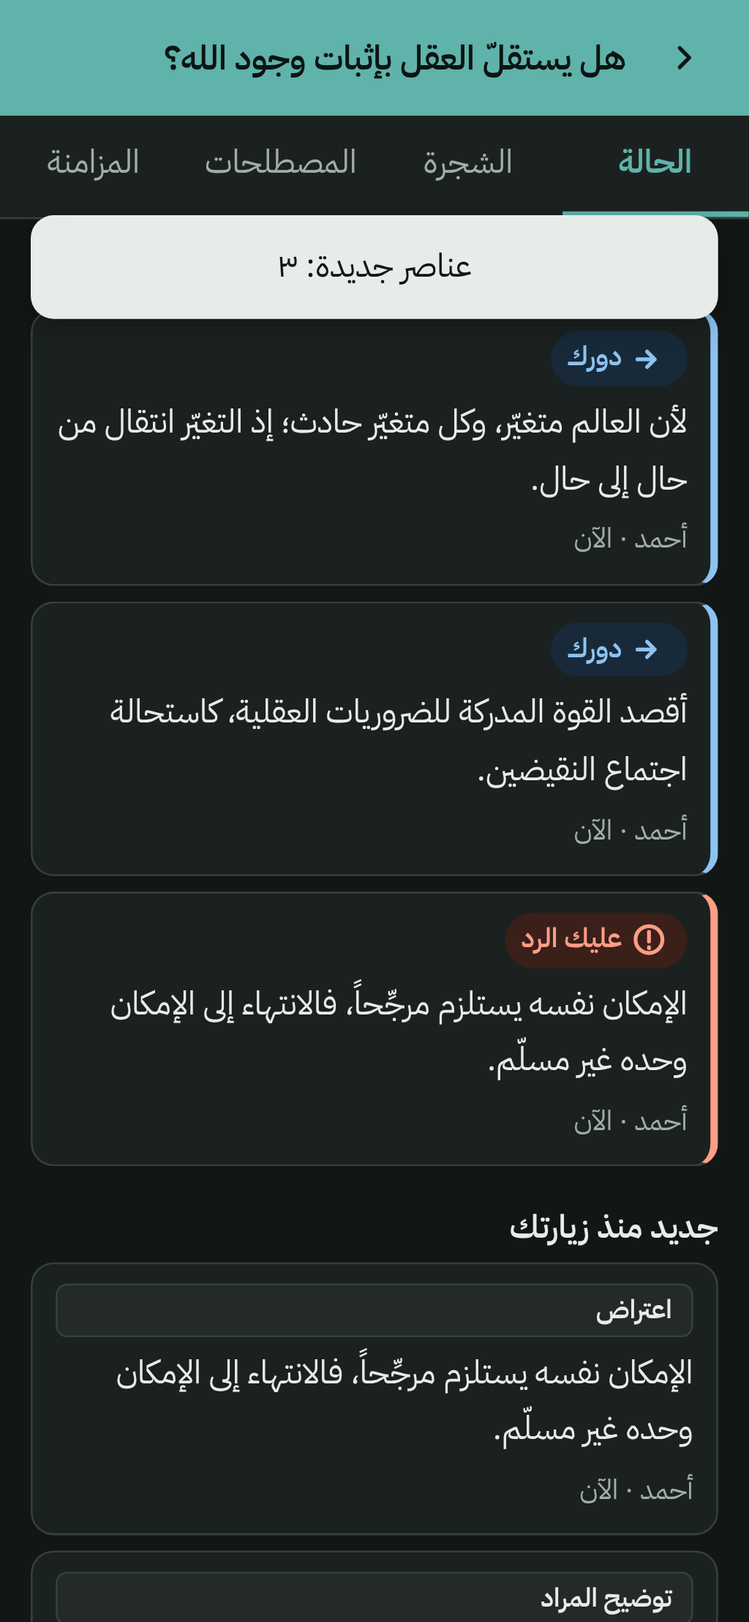
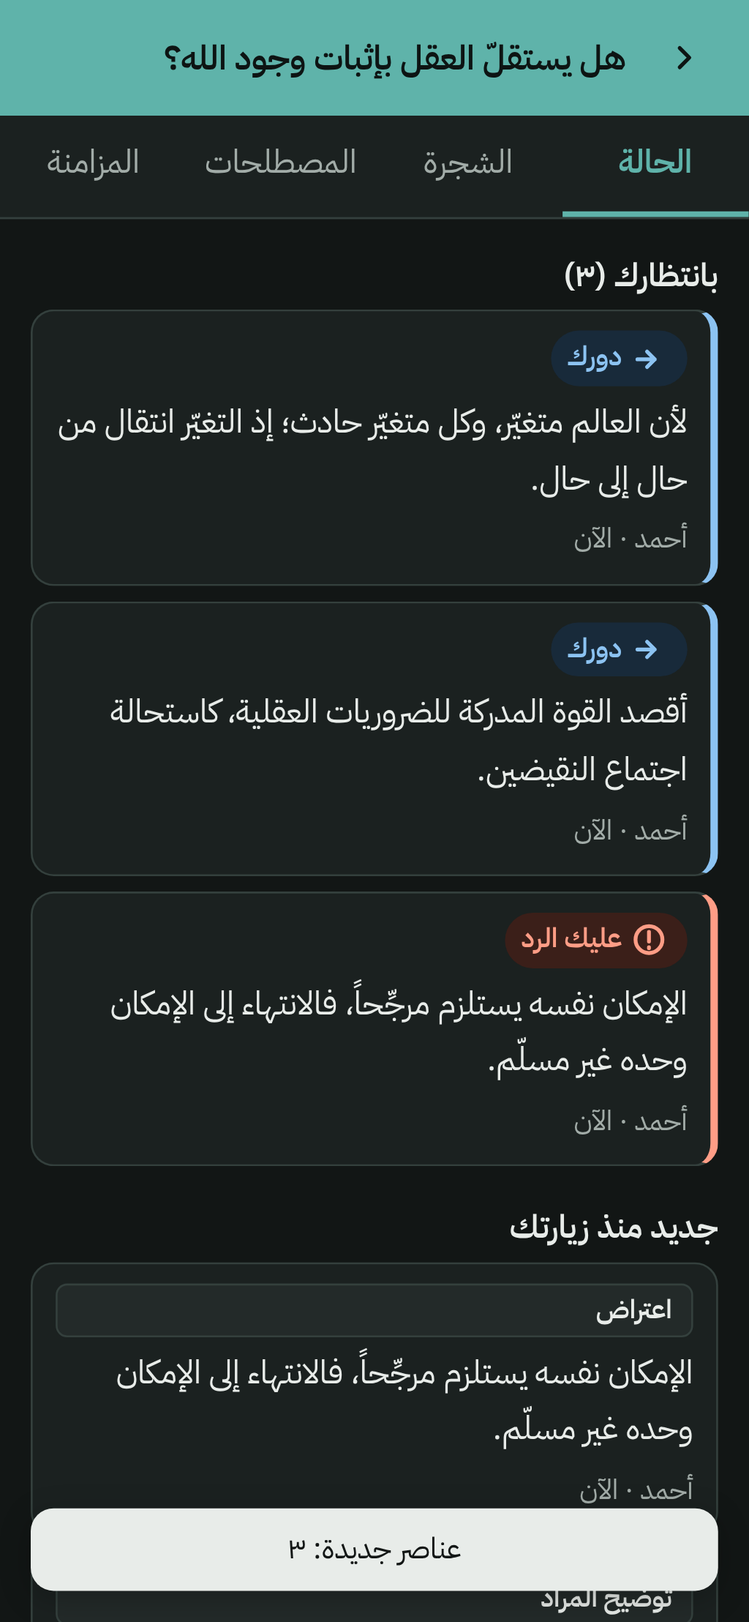
Final review fixes (F1–F8): more-on-point badge, stance targets, toast, neutral challenge badges, accurate STATUS/README/NEEDS-AHMAD, roadmap; stabilise long-debate e2e
Claude-Session: https://claude.ai/code/session_01XPZyjJvRZfdRpConqT9cqS

Changed region(s): [[0.0312, 0.1245, 0.9688, 0.218], [0.0312, 0.903, 0.9688, 0.9964]]

diff --git a/src/ui/Debate.tsx b/src/ui/Debate.tsx
@@ -111,6 +111,7 @@ function StatusTab({ l }: { l: Loaded }) {
                 <a class={`wait-item ${it.kind}`} href={debateHref(l.record.id, 't', it.focus)}>
                   <StatusChip tone={it.kind === 'owe' ? 'owe' : 'move'} text={it.kind === 'owe' ? t('debate.youOwe') : t('debate.yourMove')} />
                   <span class="wait-text" dir="auto">{excerpt(it.text, 110)}</span>
+                  {!!it.more && <span class="pill pill-owe">{t('debate.moreOnPoint', { n: it.more })}</span>}
                   <span class="muted small">{personName(s, it.by, l.me)} · {ago(it.at)}</span>
                 </a>
               </li>
@@ -128,7 +129,8 @@ function StatusTab({ l }: { l: Loaded }) {
               <li key={n.id}>
                 <a class="fresh-item" href={debateHref(l.record.id, 't', n.id)}>
                   <span class="move-badge">{moveLabel(n.move)}</span>
-                  <span dir="auto">{n.text ? excerpt(n.text, 100) : t('stance.on', { text: excerpt(n.parentId ? s.nodes.get(n.parentId)?.text ?? '' : '', 80) })}</span>
+                  {(n.move === 'concede' || n.move === 'withdraw' || n.move === 'agree_disagree') && <span class="muted small" dir="auto">{t('stance.on', { text: excerpt(n.parentId ? s.nodes.get(n.parentId)?.text ?? '' : '', 80) })}</span>}
+                  {n.text && <span dir="auto">{excerpt(n.text, 100)}</span>}
                   <span class="muted small">{personName(s, n.authorId, l.me)} · {ago(n.at)}</span>
                 </a>
               </li>
@@ -177,7 +179,7 @@ function StatusTab({ l }: { l: Loaded }) {
   );
 }
 
-interface WaitItem { key: string; kind: 'owe' | 'move'; focus: string; text: string; by: string; at: number }
+interface WaitItem { key: string; kind: 'owe' | 'move'; focus: string; text: string; by: string; at: number; more?: number }
 function waitingItems(s: DebateState, me: string | null): WaitItem[] {
   if (!me) return [];
   const ob = obligationOf(s, me);
@@ -185,7 +187,7 @@ function waitingItems(s: DebateState, me: string | null): WaitItem[] {
   for (const targetId of ob.owes) {
     const open = s.nodes.get(targetId)!.children.map((c) => s.nodes.get(c)!).filter((c) => s.challenges.get(c.id)?.state === 'open');
     const first = open[0]; if (!first) continue;
-    out.push({ key: `o${targetId}`, kind: 'owe', focus: open.length === 1 ? first.id : targetId, text: first.text, by: first.authorId, at: first.at });
+    out.push({ key: `o${targetId}`, kind: 'owe', focus: open.length === 1 ? first.id : targetId, text: first.text, by: first.authorId, at: first.at, more: open.length - 1 });
   }
   for (const cid of ob.yourMove) {
     const ch = s.challenges.get(cid)!;
@@ -311,7 +313,7 @@ export function NodeCard({ l, n, focused, onReply }: { l: Loaded; n: DNode; focu
         <span class="muted small">{ago(n.at)}</span>
       </div>
       {n.text && <p class={`card-text ${focused ? '' : 'clamp'}`} dir="auto">{n.text}</p>}
-      {!n.text && n.parentId && <p class="muted small" dir="auto">{t('stance.on', { text: excerpt(s.nodes.get(n.parentId)?.text || moveLabel(s.nodes.get(n.parentId)!.move), 90) })}</p>}
+      {(n.move === 'concede' || n.move === 'withdraw' || n.move === 'agree_disagree') && n.parentId && <p class="muted small" dir="auto">{t('stance.on', { text: excerpt(s.nodes.get(n.parentId)?.text || moveLabel(s.nodes.get(n.parentId)!.move), 90) })}</p>}
       {n.meta.origin === 'citation' && <p class="muted small">{t('compose.citation')}</p>}
       {n.meta.witness && <p class="muted small">{t(`compose.witness.${n.meta.witness}`)}</p>}
       {ref && <p class="small">→ <a href={debateHref(l.record.id, 't', ref.id)} dir="auto">{excerpt(ref.text, 60)}</a></p>}

diff --git a/src/styles.css b/src/styles.css
@@ -116,7 +116,7 @@ textarea.input { resize: vertical; }
 .card-foot { display: flex; flex-wrap: wrap; gap: 8px; align-items: center; }
 .author { font-weight: 600; font-size: 0.95rem; }
 .move-badge { display: inline-flex; padding: 1px 10px; border-radius: 6px; background: var(--surface-2); font-size: 0.85rem; font-weight: 600; border: 1px solid var(--border); }
-.move-object, .move-refute, .move-ask_proof, .move-clarify_q, .move-ask_source, .move-counter { border-color: var(--owe); color: var(--owe); }
+.move-object, .move-refute, .move-ask_proof, .move-clarify_q, .move-ask_source, .move-counter { border-color: var(--accent); color: var(--text); }
 .move-reason, .move-clarify, .move-source, .move-obvious, .move-see_also { border-color: var(--brand); color: var(--brand); }
 .reply-btn { margin-block-start: 6px; }
 .history { margin: 6px 0; padding-inline-start: 1.2em; }
@@ -148,7 +148,7 @@ textarea.input { resize: vertical; }
 .chips { display: flex; flex-wrap: wrap; gap: 6px; }
 .chip-btn { border-radius: 999px; padding: 6px 14px; }
 
-.toast { position: fixed; inset-inline: 16px; inset-block-start: 112px; pointer-events: none; box-shadow: 0 4px 16px rgb(0 0 0 / 0.25); z-index: 50; margin-inline: auto; max-inline-size: 560px; background: var(--text); color: var(--bg); padding: 12px 16px; border-radius: 12px; text-align: center; }
+.toast { position: fixed; inset-inline: 16px; inset-block-end: max(16px, env(safe-area-inset-bottom)); pointer-events: none; font-size: 0.95rem; padding: 8px 14px !important; box-shadow: 0 4px 16px rgb(0 0 0 / 0.25); z-index: 50; margin-inline: auto; max-inline-size: 560px; background: var(--text); color: var(--bg); padding: 12px 16px; border-radius: 12px; text-align: center; }
 .charter { padding-inline-start: 1.4em; margin: 0; }
 .library { margin: 0; display: flex; flex-direction: column; gap: 10px; }
 .lib-entry dt { font-weight: 600; }

diff --git a/tests/e2e/long-debate.spec.ts b/tests/e2e/long-debate.spec.ts
@@ -51,7 +51,11 @@ test('a 300-point debate stays fast and navigable on a throttled phone', async (
   for (let i = 0; i < 6; i++) {
     const next = A.page.locator('a.card').first();
     if (!(await next.count())) break;
-    t1 = Date.now(); await next.click(); await expect(A.page.locator('article.card.focused')).toBeVisible(); depthSteps.push(Date.now() - t1);
+    const href = (await next.getAttribute('href'))!;
+    const target = decodeURIComponent(href.split('/').pop()!);
+    t1 = Date.now(); await next.click();
+    await expect.poll(() => decodeURIComponent(A.page.url())).toContain(`/t/${target}`); // navigation finished
+    await expect(A.page.locator('article.card.focused')).toBeVisible(); depthSteps.push(Date.now() - t1);
   }
   t1 = Date.now();
   await A.page.locator('article.card.focused').getByRole('button', { name: 'ردّ' }).click();

diff --git a/src/ui/SyncTab.tsx b/src/ui/SyncTab.tsx
@@ -27,7 +27,7 @@ export function SyncTab({ l }: { l: Loaded }) {
   const exportPlain = async () => { if (!confirm(t('sync.exportPlainWarn'))) return; const f = plainExport(); await shareFile(f.name, f.text, 'application/json'); };
   const importF = async () => {
     const text = await readFileText('.txt,text/plain'); if (!text) return;
-    try { const res = await importFileText(text); showToast(t('sync.imported', { n: res.added })); }
+    try { const res = await importFileText(text); if (res.added > 0) showToast(t('sync.imported', { n: res.added })); }
     catch (e) { showToast(errorText((e as Error).message)); }
   };
   const shareIdentity = async () => {

diff --git a/src/ui/LinkHandler.tsx b/src/ui/LinkHandler.tsx
@@ -25,7 +25,7 @@ export function LinkHandler({ raw }: { raw: string }) {
           go(rec?.identity ? debateHref(id) : debateHref(id, 'join'), true);
         } else if (p.kind === 'update') {
           const n = await acceptUpdatePayload(p.debateId, p.payload);
-          showToast(t('sync.imported', { n }));
+          if (n > 0) showToast(t('sync.imported', { n }));
           go(debateHref(p.debateId), true);
         } else {
           const name = await acceptIdentityPayload(p.debateId, p.payload, (nm) => confirm(t('sync.identityConfirm', { name: nm })));

diff --git a/src/ui/Home.tsx b/src/ui/Home.tsx
@@ -19,7 +19,7 @@ export function Home() {
   const importFile = async () => {
     const text = await readFileText('.txt,text/plain');
     if (!text) return;
-    try { const r = await importFileText(text); showToast(t('sync.imported', { n: r.added })); go(debateHref(r.debateId)); }
+    try { const r = await importFileText(text); if (r.added > 0) showToast(t('sync.imported', { n: r.added })); go(debateHref(r.debateId)); }
     catch (e) { showToast(errorText((e as Error).message)); }
   };
   return (

diff --git a/src/i18n/ar.ts b/src/i18n/ar.ts
@@ -97,6 +97,7 @@ export const ar = {
   'debate.yourMove': 'دورك',
   'debate.owesN': 'عليه الرد: {n}',
   'debate.moveN': 'دوره: {n}',
+  'debate.moreOnPoint': 'وسؤال/اعتراض آخر على النقطة نفسها: {n}',
   'debate.moveOf': 'دور {name}',
   'debate.nothingWaiting': 'لا شيء ينتظرك الآن.',
   'debate.newSince': 'جديد منذ زيارتك',

diff --git a/src/i18n/en.ts b/src/i18n/en.ts
@@ -98,6 +98,7 @@ export const en: Record<StringKey, string> = {
   'debate.yourMove': 'Your move',
   'debate.owesN': 'owes: {n}',
   'debate.moveN': 'their move: {n}',
+  'debate.moreOnPoint': '+{n} more on the same point',
   'debate.moveOf': '{name}\'s move',
   'debate.nothingWaiting': 'Nothing is waiting on you.',
   'debate.newSince': 'New since your last visit',

diff --git a/docs/qa/FINAL-REVIEW.md b/docs/qa/FINAL-REVIEW.md
@@ -1,0 +1,61 @@
+# Final independent review: Munazara (مناظرة)
+
+**Reviewer:** independent final reviewer, starting with no prior context · **Date:** 2026-11-13 · **Commit reviewed:** `1ac2206`
+**Method:** I built the site and served it with `vite preview` on :4176. Two Playwright contexts played Ahmad and Khalid at 390×844, locale ar-SA, both in manual sync mode, with sharing done through the clipboard fallback. They held a 15-move Arabic debate on «هل يستقلّ العقل بإثبات وجود الله؟». After that I tried edge cases, switched to English and dark mode, and served `dist/` under a `/Repo-B/` sub-path, as GitHub Pages would. I looked at every screenshot myself. I read the earlier reviews only after my own hands-on pass.
+
+## Verdict: **ship, with the caveats listed below**
+
+The core promise holds in real use. Every one of the 15 moves was attached to the point it answered, and «بانتظارك» showed the right person each time. The «عليك الرد» and «دورك» labels and the participant counts were symmetric and correct after every exchange. Silence closed nothing. Agree-to-disagree needed both people. The wording never names a winner. Arabic typography is good: IBM Plex Sans Arabic is self-hosted, the layout is RTL throughout, mixed Arabic and Latin text displays correctly, and there was no horizontal scroll at 390 px.
+
+In manual mode the app made **0 requests to other hosts** and logged no console errors. The sub-path build loads its fonts and service worker, and its invite links include `/Repo-B/`.
+
+None of my findings is Critical. One Important finding concerns the "who owes what" promise and is cheap to fix. One Important finding concerns the docs: they had gone stale because commits landed while this review was running.
+
+## Findings
+
+| ID | Severity | Evidence | Suggested fix |
+|---|---|---|---|
+| F1 | **Important** | **One card can hide several demands.** Khalid asked «ما دليلك؟» and then «ماذا تقصد؟» on Ahmad's claim. Ahmad's «بانتظارك (١)» showed a single card containing only the *first* question. Nothing said a second, different question was also waiting. The card is built in `Debate.tsx` `waitingItems()` from `first.text` only. The second question appeared only after tapping, in the focus view. Counting a point once is a deliberate anti-gish-gallop rule, but the card itself should not hide the content. Here it under-reports what Ahmad owes. | Keep counting per point. On the card, add «و{n} طلبات أخرى على النقطة نفسها», or list each demand's move label, for example «ما دليلك؟ · ماذا تقصد؟». |
+| F2 | **Important** (docs) | **STATUS.md is stale.** Commits `76840a3` and `1ac2206` landed during this review. STATUS still says "deploy job fails with 'Ensure GitHub Pages has been enabled'", but the Pages workflow now *succeeds* without deploying and only emits a notice. STATUS also says "CI on GitHub: green (run 6 on commit 89b2496)", yet CI failed on `76840a3` and passed on `1ac2206`. The site URL returns 404, so it is not live, as the docs say. One more risk: a green "Deploy to GitHub Pages" run could make the owner think the site is live. | Update STATUS's "Not done" and CI lines. In NEEDS-AHMAD §1, add: "a green Deploy run does not mean the site is live until Pages is switched on; look for the notice". |
+| F3 | Minor | **The Q5 fix only partly holds.** A concession, withdrawal or agree-to-disagree shows «على: …» (what it applies to) only when the stance has *no* text (`Debate.tsx:131` and `:314`). The composer offers a text box for these moves. In my run, Ahmad's proposal carried a comment, and Khalid's «جديد منذ زيارتك» showed «اتفاق على الاختلاف · يبدو أن خلافنا…» with no indication of which point it applied to. | Always show «على: …», and show the comment after it. |
+| F4 | Minor | **Docs numbers are slightly off.** README and STATUS say first-load JS is "≈ 40 KiB gzip"; `npm run size` reports **42.2 KiB**. They give the 300-point performance as status 478 ms and LCP 440 ms; my run measured 630 ms and 552 ms. That is machine variance and still far inside budget. STATUS says "TRACEABILITY" without a path; the file is at `docs/qc/TRACEABILITY.md`. | Use "≈ 42 KiB". Add "(varies by machine)" to the performance figures. Give the path. |
+| F5 | Minor | **Toast placement (Q12 fix only partly holds).** The «عناصر جديدة: n» toast does not block taps, but for 3.5 s it covers the first «بانتظارك» card, or the header of the focused card, which is exactly what the user needs to read after opening an update (shots 08, 12, 16). Re-opening the same link shows «عناصر جديدة: ٠». | Move the toast to the bottom safe area. Suppress it when n is 0, or use the wording «لا جديد في هذا الرابط». |
+| F6 | Minor | **Ambiguous README wording.** README (Arabic) says «المناظرة على جهازك ومشفّرة طرفاً لطرف». This can be read as "encrypted on your device", but PRIVACY.md correctly says the data is unencrypted at rest. | «محفوظة على جهازك، وتنتقل مشفّرة طرفاً لطرف». |
+| F7 | Minor | **Challenge colour.** Challenge move badges such as «ما دليلك؟» and «ماذا تقصد؟» use the same red as «عليك الرد». Asking for proof is a normal, legitimate move, and red suggests something went wrong. This is a small fairness signal. | Use a neutral or accent colour for challenge badges, and keep red for obligations. |
+| F8 | Minor | **Update links grow with history.** Each update link carries the full history until it reaches 12,000 characters. Its length grew from 2.0 KB to 3.9 KB over 15 short moves. After that it switches to a 3-day delta, then to a file. Nothing confirms that the other person received an update. Points that have not arrived yet are counted as «عناصر لم تُعرض» (good), and a backup fixes any gap. This is acknowledged only indirectly, in NEEDS-AHMAD §2. | Add one line in ROADMAP (relay anti-entropy is listed; manual-mode receipts are not). |
+
+## Hands-on observations (passed)
+- **Who owes what:** after each of the 5 exchanges, the owe and move lists matched the tree on both phones. When a deep thread had an open demand, the claim chip said «قيد النقاش — بانتظار رد أحمد (أنت)». The «بانتظاري» filter also works in the tree.
+- **Fairness:** the hint «أقبل هذا» on a root standpoint quotes that standpoint before you confirm. Agree-to-disagree is a proposal that passes the move to the other person, and closes only when both agree. «نقض بشاهد» is offered only on a reason (دليل), as the classical definition of naqd requires, and it refuses to send without a witness type («اختر نوع الشاهد للنقض.»). An empty or one-letter answer is refused. Status wording is neutral: «قَبِله الطرف الآخر», «لم يُعترض عليه بعد», «لم يعد قائماً».
+- **Edge cases:** opening the same update twice is idempotent. A 5,000-character objection is stored and displayed fully in focus. Text mixing Arabic, Latin, numbers and parentheses displays correctly. English UI keeps Arabic names isolated, so «خالد (you)» displays correctly. Dark mode is legible.
+- **Privacy:** the page has `noindex` and a strict meta CSP. Invite text contains no debate title. Manual mode made zero requests to other hosts.
+
+## Earlier reviews: do their fixes hold?
+Q1–Q4, Q6–Q11 and S1 (the forged invite, which has an e2e test) all hold in my run. **Q5 holds only partly (F3) and Q12 holds only partly (F5).**
+
+## Honesty check
+| Claim | Result |
+|---|---|
+| README image and link paths (icon, demo.gif/mp4, 6 screenshots, PRD, SYNTHESIS, org, DECISIONS, LICENSE) | All exist |
+| "48 unit tests passing", "9 e2e passing" | Confirmed: 48/48, and 9 passed with 2 skipped. The 2 skipped are the screenshot and demo generators, not checks. |
+| "Manual mode: 0 requests to other hosts" | Confirmed by the e2e test and by my own run |
+| "No third-party fonts, scripts or trackers; noindex; strict CSP" | Confirmed in `index.html` and `dist/` |
+| "Live site" | Not live (404), but the README flags it inline and NEEDS-AHMAD §1 explains how to switch it on |
+| STATUS "deploy job fails" and "CI green run 6" | **Stale** (F2) |
+| "≈ 40 KiB JS", performance figures | Slightly off (F4) |
+| PRIVACY limits (unencrypted at rest, invite cannot be revoked, iOS 7-day eviction, relay metadata) | Honest and matches the code |
+
+## Gap check against the goal
+- **Voice:** the owner debates by WhatsApp voice notes today, and the app is text-only. ROADMAP §13 acknowledges this.
+- **"Usable without setup by the owner":** this needs one click to switch on GitHub Pages. NEEDS-AHMAD acknowledges it.
+- **"Two or more people":** this is supported. Three-participant rules are covered by unit tests only, with no e2e test. That is acceptable.
+
+No unacknowledged gap is severe enough to block the release.
+
+## Test results (run during this review, at commit `1ac2206`'s app code)
+- `npx tsc --noEmit`: clean
+- `npx vitest run`: **4 files, 48/48 passed**
+- `npx playwright test --trace off`: **9 passed, 2 skipped** (media generators), in 11.5 s
+- `npm run size`: first-load JS 42.2 KiB gzip; fonts 125.2 KiB
+
+Scripts and screenshots are in the reviewer's scratchpad, not in the repo.

diff --git a/docs/STATUS.md b/docs/STATUS.md
@@ -2,34 +2,34 @@
 
 > First file any session reads. Kept current at all times.
 
-**Current phase:** Phase 5 — verify & release. Core product built; security and QA reviews resolved; final independent review next.
+**Current phase:** Phase 5 complete (final independent review: *ship with caveats*, all findings resolved). Next: loop to ROADMAP.
 **Last updated:** 2026-11-13
 
+## The one thing that needs Ahmad
+**The site is not live yet.** GitHub Pages must be switched on once (Settings → Pages → Source: GitHub Actions) — 1 minute, steps in [`NEEDS-AHMAD.md`](NEEDS-AHMAD.md) §1. Until then the "Deploy to GitHub Pages" workflow builds and tests but **skips** the deploy (it shows green with a notice — a green run is not a live site). After switching it on, run the workflow once manually; the site appears at https://ahmad-nayfeh.github.io/Repo-B/.
+
 ## What exists
-- Research (Phase 1, passed independent review): `research/` — 6 topic notes, `SYNTHESIS.md`, `REVIEW-synthesis.md`, `SOURCES.md` (217 sources).
-- Organisation (Phase 2): `docs/org/` — 7 department charters with measurable gates.
-- Design (Phase 3, passed independent review): `docs/design/PRD.md` v1.1, `ARCHITECTURE.md` v1.1, `REVIEW-design.md`.
-- App (Phase 4): TypeScript + Preact static PWA in `src/`.
-  - Model: munazara move set, single validity matrix, computed statuses and **symmetric** obligations (owes / your move), dead/moot rules.
-  - Every event signed (ECDSA P-256, personId bound to key hash); E2E encryption (AES-GCM, key only in link fragment).
-  - Manual sync (update links without key, encrypted `.txt` backup, paste box); relay mailbox sync (Nostr, lazy-loaded, per-device keys).
-  - Screens: home, new debate, join, status (waiting on you / new since / participants / standpoints / search), tree focus view with breadcrumb and filters, context reply composer, terms (debate definitions + 13-entry sourced library), sync & backup, about/privacy, guide. Arabic default, English available.
-  - Offline via generated service worker.
+- **App** (`src/`): Arabic-first PWA for structured debates.
+  - Munazara move set with one validity matrix; computed statuses; **symmetric obligations** («عليك الرد» / «دورك») for every participant; nothing closes by silence; no scores.
+  - Screens: home, new debate, join, status (waiting on you, new since your visit, participants, standpoints, search), tree focus view (breadcrumb, filters, search, up-navigation), context reply composer, terms (+13-entry sourced library), sync & backup, about/privacy, guide. Arabic + English, light + dark.
+  - Integrity & privacy: every event signed (ECDSA P-256; id bound to key); content-addressed ids; debate id bound to creator; strict validation of incoming data; AES-256-GCM end-to-end encryption with the key only in the invite link; no analytics/trackers/third-party requests.
+  - Sync: manual (update links without the key; encrypted `.txt` backup; paste box for iPhone) or encrypted relay mailbox (public Nostr relays, per-device keys).
+  - Offline after first visit (generated service worker).
+- **Trail:** `research/` (6 notes, synthesis, review, 217 sources) · `docs/org/` (7 department charters) · `docs/design/` (PRD, ARCHITECTURE, design review) · `docs/qa/` (security, QA, final reviews + resolution logs) · `docs/qc/TRACEABILITY.md` · `docs/DECISIONS.md` (D-001…D-017).
+- **README** (ar/en) with demo GIF/MP4 recorded from the real app, screenshots, diagrams.
 
-## Tested (evidence)
-- Unit (Vitest, 48 tests, incl. security regressions S1–S7 and QA fixtures Q1–Q2): validity matrix, all review fixtures (D2–D10, D27), symmetry, determinism under 50 shuffles, crypto, impersonation rejection, links, backup, IndexedDB, i18n parity and no-verdict wording.
-- E2E (Playwright, Pixel 7 profile, Arabic locale, 9 tests: + accessibility light/dark, identity transfer, forged-invite refusal): two-person core loop over manual links (no foreign requests, no CSP violations, no errors); symmetric counts; relay sync through 2 local mock relays (relays hold ciphertext only); offline read+write; 300-point debate on 4× CPU throttle: status 478 ms, LCP 440 ms, focus steps ≤ 126 ms (local server).
-- Budgets: first-load JS 40 KiB gzip (budget 150); fonts 125 KiB (budget 200).
-- CI on GitHub: green (run 6 on commit 89b2496).
+## How it was tested (evidence)
+- **Unit (Vitest): 48 passing** — validity matrix; design-review fixtures D2–D10, D27; QA fixtures Q1–Q2; symmetry; determinism over 50 shuffled orders; crypto; security regressions (impersonation, id squatting, creator binding, malformed events, decompression cap); links; backup; IndexedDB; i18n parity and no-verdict wording.
+- **End-to-end (Playwright, Pixel 7 profile, Arabic): 9 passing** — two-person core loop over manual links (0 requests to other hosts, 0 CSP violations, 0 console errors); symmetric counts; relay sync through two local mock relays (relays hold ciphertext only); offline read+write; 300-point signed debate on 4× CPU throttle (status ≈ 0.5 s, LCP ≈ 0.4 s, local server — machine-dependent); axe accessibility (light + dark, 0 serious/critical); identity transfer to a second device; forged invite refused.
+- **CI on GitHub:** typecheck, unit, string/RTL checks, build, size budget (≈ 42 KiB JS gzip / 150 budget), e2e. Green on the latest commits (one earlier run hit a test race, fixed: `long-debate.spec.ts` now waits for navigation).
+- **Independent reviews (fresh-context agents):** research synthesis (17 findings) · design (27) · security (12: 2 Critical) · hands-on QA (12: 1 Critical) · final review (8, no Critical). All resolved or explicitly accepted with reasons — see the resolution logs.
 
-## Not done / known problems
-- **GitHub Pages is not enabled yet** → deploy job fails with "Ensure GitHub Pages has been enabled". One click by Ahmad: `docs/NEEDS-AHMAD.md` §1.
-- Real-device checks (WhatsApp → iPhone, long links) not possible here: `NEEDS-AHMAD.md` §2.
-- Public-relay behaviour is only smoke-tested (TECH-54); retention is not guaranteed.
-- Independent security review (`docs/qa/SECURITY-REVIEW.md`): 2 Critical, 1 High, 4 Medium, 5 Low → resolved (`SECURITY-RESOLUTION.md`).
-- Independent hands-on QA review (`docs/qa/QA-REVIEW.md`): 1 Critical, 4 Important, 7 Minor → resolved (`QA-RESOLUTION.md`).
-- README (ar/en) with demo GIF/MP4, screenshots and diagrams; ROADMAP; PRIVACY; FORMAT; TRACEABILITY.
+## Not done / known limits
+- Site not live until Pages is switched on (above).
+- Real-device checks (WhatsApp → iPhone, long links on WhatsApp) need a phone: `NEEDS-AHMAD.md` §2.
+- Public relays: smoke-tested once (TECH-54); no retention guarantee — every device keeps the full debate; back up.
+- Data on the device is not encrypted at rest; a sent invite link cannot be revoked yet (re-key is ROADMAP #1).
+- Voice: text only; use the phone keyboard's dictation (no free, private in-browser Arabic speech-to-text exists today — `research/voice.md`).
 
 ## Next
-1. Final independent review of the built site against brief §1 (Phase 5 exit).
-2. Then loop to ROADMAP items (re-key, relay anti-entropy, editable relays).
+ROADMAP in order: re-key / new link → relay anti-entropy → editable relays → deferred status → smaller manual updates with receipts.

diff --git a/README.md b/README.md
@@ -48,7 +48,7 @@
 | 📜 **حركات آداب البحث والمناظرة** | الاستفسار، والمنع وطلب الدليل، والمنع مع السند، والنقض بشاهد، والمعارضة، وطلب تصحيح النقل، وتحرير المراد، والتسليم. |
 | 📖 **المصطلحات** | تعريفات متفق عليها أو محل خلاف، ومرجع موثّق للمغالطات والمفاهيم المسمّاة — يُسأل عنها سؤالاً لا اتهاماً. |
 | ⚖ **لا يحكم لأحد** | لا نقاط ولا تصويت ولا «فائز». الأداة تنظّم الحوار فقط. |
-| 🔒 **خاص افتراضياً** | لا حسابات، ولا إحصاءات، ولا متتبّعات. المناظرة على جهازك ومشفّرة طرفاً لطرف، والمفتاح في رابط الدعوة فقط. |
+| 🔒 **خاص افتراضياً** | لا حسابات، ولا إحصاءات، ولا متتبّعات. المناظرة محفوظة على جهازك، وكل ما يخرج منه مشفّر طرفاً لطرف، والمفتاح في رابط الدعوة فقط. (المحفوظ على الجهاز نفسه غير مشفّر.) |
 | 📱 **للهاتف أولاً** | عربي أولاً مع الإنجليزية، يعمل دون اتصال بعد أول زيارة، ويُثبَّت على الشاشة الرئيسية. |
 | 💸 **مجاني بالكامل** | لا خادم خاص، ولا اشتراكات، ولا إعلانات. |
 
@@ -73,7 +73,7 @@ Long debates — about faith, God's existence, the authority of reason — happe
 | 📜 **Classical disputation moves** | From *ādāb al-baḥth wa-l-munāẓara*: clarification, denial / request for proof, objection with a ground, refutation with a witness, counter-argument, authenticate the citation, clarify meaning, concession. |
 | 📖 **Terms** | Agreed or disputed definitions, plus a sourced reference of named fallacies and concepts — raised as questions, never accusations. |
 | ⚖ **Never judges** | No scores, votes or "winner". The tool structures; people decide. |
-| 🔒 **Private by default** | No accounts, analytics or trackers. The debate lives on your device, end-to-end encrypted; the key exists only in the invite link. |
+| 🔒 **Private by default** | No accounts, analytics or trackers. The debate lives on your device; everything that leaves it is end-to-end encrypted, and the key exists only in the invite link. (Data stored on the device itself is not encrypted.) |
 | 📱 **Mobile-first** | Arabic-first with English, offline after the first visit, installable. |
 | 💸 **Free** | No server of ours, no subscriptions, no ads. |
 
@@ -167,8 +167,8 @@ No analytics · no trackers · no third-party scripts or fonts · `noindex` · s
 | Independent reviews | research, design, security (12 findings), hands-on QA (12 findings) — all resolved: [`docs/qa/`](docs/qa) |
 | Manual mode network isolation | 0 requests to other hosts |
 | Accessibility (axe, WCAG 2.2 AA tags, light + dark) | 0 serious/critical violations |
-| 300-point debate, 4× CPU throttle | status 478 ms, LCP 440 ms |
-| First-load JavaScript | ≈ 40 KiB gzip |
+| 300-point debate, 4× CPU throttle (local server; machine-dependent) | status ≈ 0.5 s, LCP ≈ 0.4 s |
+| First-load JavaScript | ≈ 42 KiB gzip (budget 150) |
 
 ---
 

diff --git a/docs/ROADMAP.md b/docs/ROADMAP.md
@@ -7,17 +7,18 @@ Priority order. Each item passes the same gates as v1 (tests, review, measured r
 2. **Relay anti-entropy** — every device republishes *all* events it holds (not only its own), so relays can be repaired from either phone.
 3. **Editable relay list** in the sync screen, with health history.
 4. **Deferred status** («مؤجل») for points you want to answer later without them looking ignored.
-5. **Commitments & shared ground view** per participant (asserted / conceded / withdrawn; المسلّمات).
+5. **Manual mode: smaller updates and receipts** — update links currently carry the whole history when it fits (they grow with the debate) and nothing confirms the other person received one; send deltas since the last *acknowledged* update and show "seen up to".
+6. **Commitments & shared ground view** per participant (asserted / conceded / withdrawn; المسلّمات).
 
 ## Then
-6. More classical moves: التنزّل (concede for argument's sake), القول بالموجب (granted, but it doesn't follow), counter-proof forms (قلب / مثل / غير), definition objections (غير جامع / غير مانع / دور / أخفى).
-7. Fallacy tags on challenges, always phrased as questions.
-8. Automatic underlining of agreed terms in text (Arabic-aware: ال، و، ف، ب، ل).
-9. Markdown and Argdown export.
-10. App passcode (encrypt data at rest on the device); room-tag rotation to reduce relay-side linkage.
-11. Optional free backend adapter (Cloudflare Durable Objects) for guaranteed retention — setup guide for the owner.
-12. Map view for desktop.
+7. More classical moves: التنزّل (concede for argument's sake), القول بالموجب (granted, but it doesn't follow), counter-proof forms (قلب / مثل / غير), definition objections (غير جامع / غير مانع / دور / أخفى).
+8. Fallacy tags on challenges, always phrased as questions.
+9. Automatic underlining of agreed terms in text (Arabic-aware: ال، و، ف، ب، ل).
+10. Markdown and Argdown export.
+11. App passcode (encrypt data at rest on the device); room-tag rotation to reduce relay-side linkage.
+12. Optional free backend adapter (Cloudflare Durable Objects) for guaranteed retention — setup guide for the owner.
+13. Map view for desktop.
 
 ## Research / experiments
-13. On-device transcription of WhatsApp voice notes (Whisper/Moonshine in the browser) — opt-in, with an explicit consent and download-size screen. Today Arabic accuracy at phone-sized models is too low (research/voice.md).
-14. Live peer-to-peer channel when both people are online.
+14. On-device transcription of WhatsApp voice notes (Whisper/Moonshine in the browser) — opt-in, with an explicit consent and download-size screen. Today Arabic accuracy at phone-sized models is too low (research/voice.md).
+15. Live peer-to-peer channel when both people are online.
